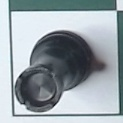
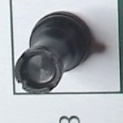
finished collecting training data for black rook

diff --git a/brain.py b/brain.py
@@ -212,7 +212,7 @@ def main():
                     square.saveImage(squares)
                 return
                 '''
-                collect2PData(board, squares, 62, 63, "white", "rook", 8, 7)
+                collect2PData(board, squares, 62, 63, "black", "rook", 8, 7)
                 #collectData(board, squares)
                 cv2.imshow("Frame", squares[22:136, 517:640])
                 if cv2.waitKey(1) & 0xFF == ord('q'):
